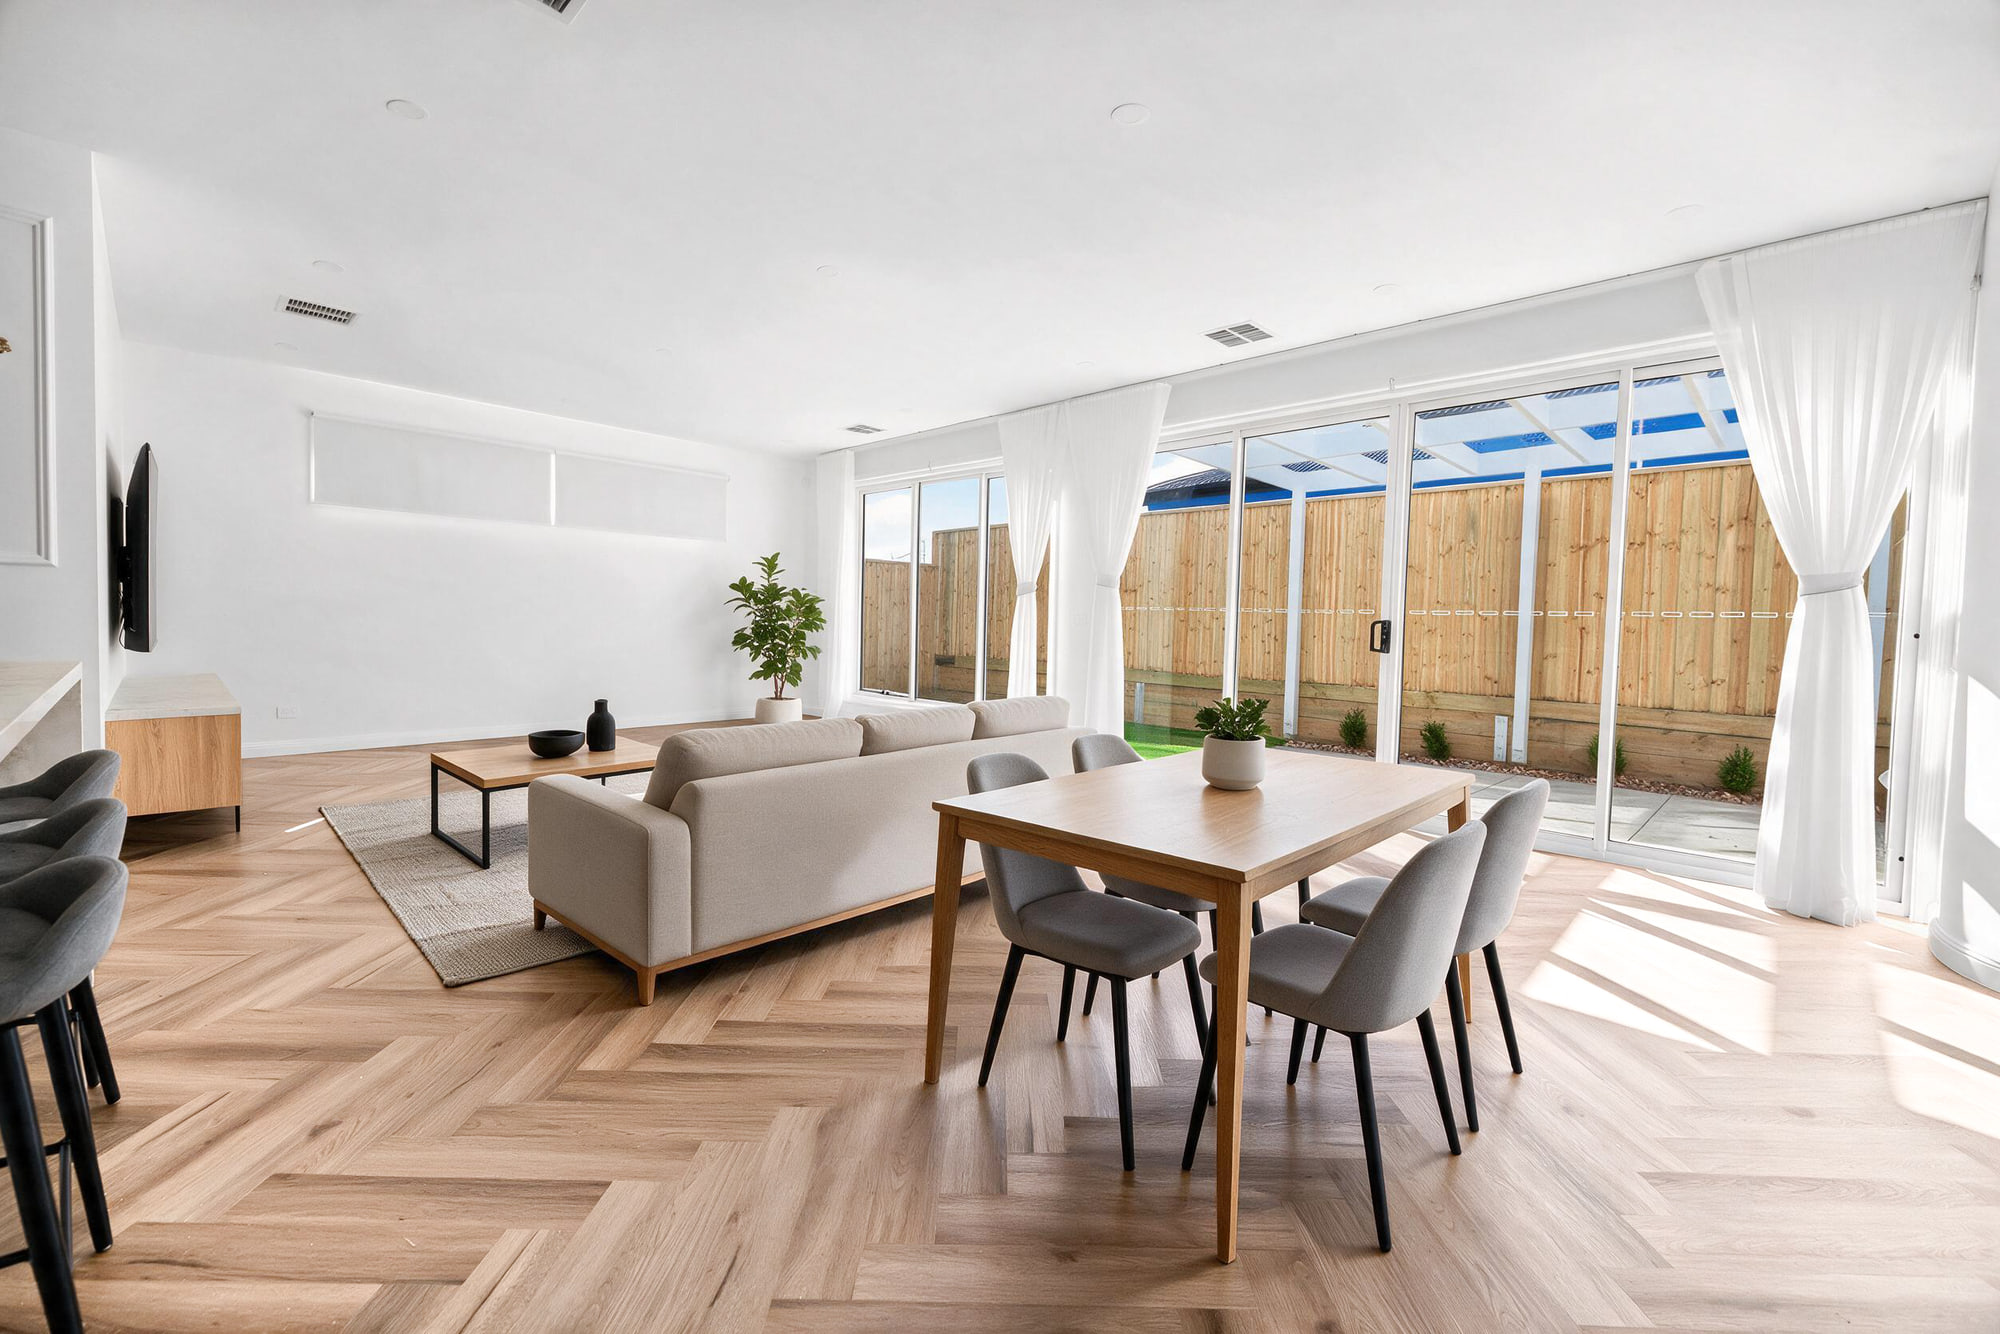
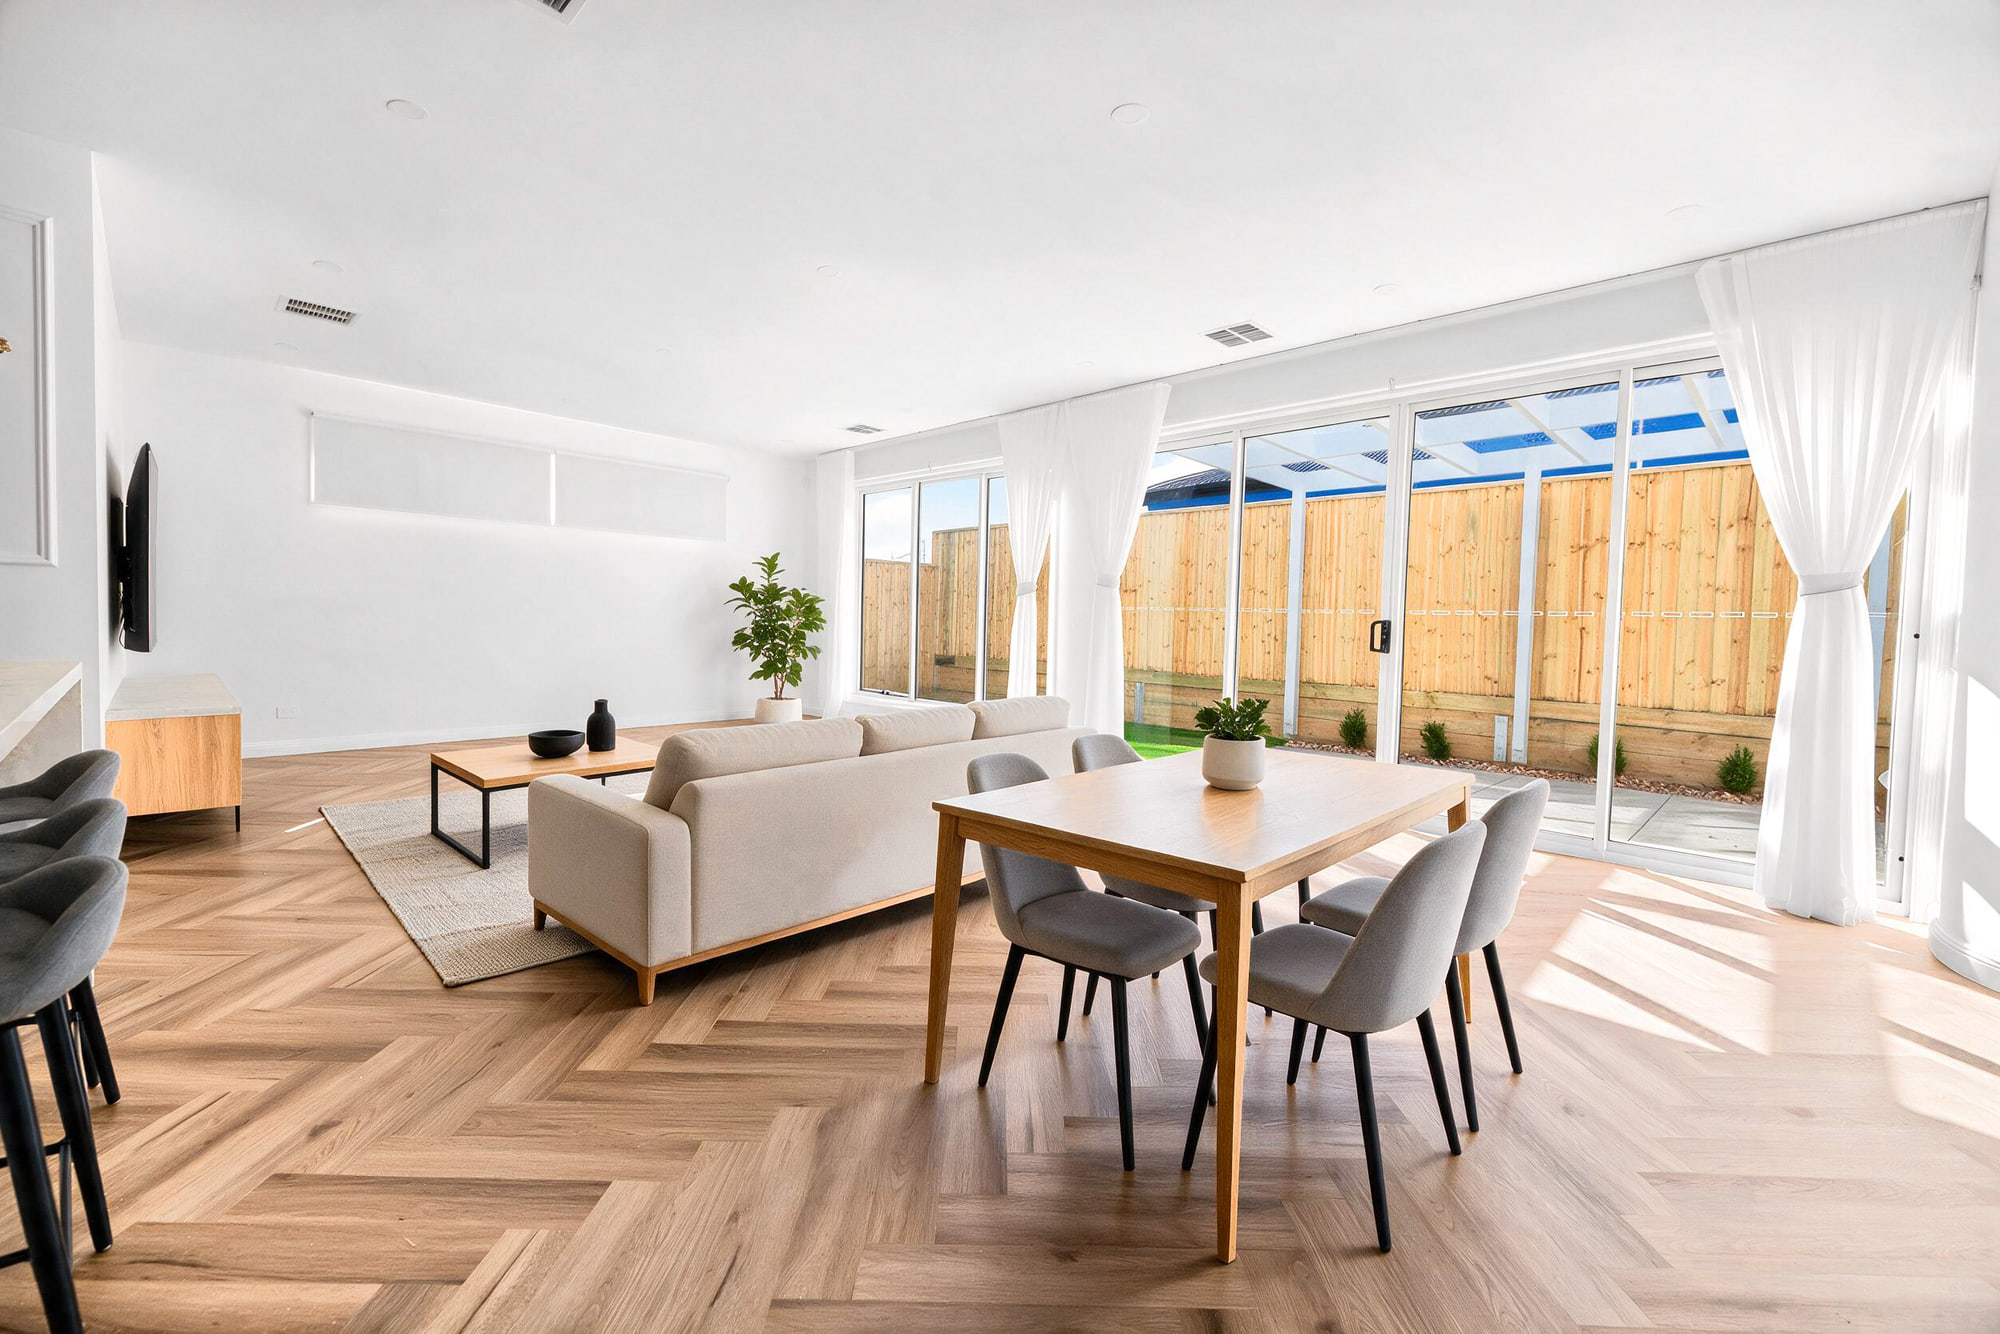
Fan the photos on phones, enlarge the section numbers
Eighteen tiles at once is the proof on a wide screen and eighteen postage
stamps on a phone. Phones now get a single fanned stack that reads as a
pile of photographs, with a "View all 18 photos" button, opening the same
lightbox at the first frame. The grid is unchanged from md up.

The section numbers were set at label size, too quiet to mark anything.
They are 60px now, in the same gold the numbered steps elsewhere use.

Heading reads "What's included." rather than "What you get."

Also swaps in the newer staged living and dining shot. It registers
against the empty frame better than the one it replaces: ceiling-region
difference 14.0 against 21.3.

Claude-Session: https://claude.ai/code/session_013442YGUeUxr3URXqHjmu23

diff --git a/src/components/ListingPhotoGrid.tsx b/src/components/ListingPhotoGrid.tsx
@@ -8,10 +8,11 @@ import Lightbox, { type LightboxState } from "./VideoLightbox";
 /**
  * The delivered photo set, openable.
  *
- * A grid of eighteen thumbnails proves the count but is too small to judge the
- * work by, which is the whole point of showing it on an ad page. Clicking any
- * tile opens the full set in the lightbox, where arrows, keys and a swipe step
- * through it.
+ * Two presentations of the same thing. On a wide screen every photograph is a
+ * tile, because eighteen of them at once is the proof. On a phone that grid
+ * becomes eighteen postage stamps, so it collapses to a single fanned stack
+ * that reads as a pile of photographs and opens the same lightbox — where
+ * arrows, keys and a swipe step through the set.
  */
 export default function ListingPhotoGrid({ photos }: { photos: string[] }) {
   const [lightbox, setLightbox] = useState<LightboxState>(null);
@@ -26,10 +27,48 @@ export default function ListingPhotoGrid({ photos }: { photos: string[] }) {
       index,
     });
 
+  /* The three on top of the pile. Any three would do; these are the first
+     three so the stack opens on the same frame the lightbox does. */
+  const [top, second, third] = photos;
+
   return (
     <>
+      {/* Phone: one pile of photographs */}
+      <button
+        type="button"
+        onClick={() => open(0)}
+        aria-label={`Open all ${photos.length} photographs`}
+        className="group mt-8 block w-full cursor-pointer md:hidden"
+      >
+        {/* Padding so the fanned corners aren't clipped by the button box. */}
+        <div className="relative mx-auto aspect-[3/2] w-[84%] px-1">
+          <span className="absolute inset-0 -rotate-6 overflow-hidden rounded-xl bg-white shadow-[0_10px_30px_rgba(26,26,26,0.18)]">
+            <Image src={third} alt="" fill sizes="84vw" quality={70} className="object-cover" />
+          </span>
+          <span className="absolute inset-0 rotate-3 overflow-hidden rounded-xl bg-white shadow-[0_10px_30px_rgba(26,26,26,0.18)]">
+            <Image src={second} alt="" fill sizes="84vw" quality={70} className="object-cover" />
+          </span>
+          <span className="absolute inset-0 overflow-hidden rounded-xl bg-white shadow-[0_14px_36px_rgba(26,26,26,0.22)] transition-transform duration-300 group-active:scale-[0.98]">
+            <Image
+              src={top}
+              alt={`Listing photograph 1 of ${photos.length}`}
+              fill
+              sizes="84vw"
+              quality={85}
+              className="object-cover"
+            />
+          </span>
+        </div>
+
+        <span className="mt-5 inline-flex items-center gap-2 rounded-full bg-re-blue px-5 py-2.5 text-sm text-white">
+          View all {photos.length} photos
+          <span aria-hidden>→</span>
+        </span>
+      </button>
+
+      {/* Wide: every photograph at once */}
       <Stagger
-        className="mt-8 grid grid-cols-2 sm:grid-cols-3 lg:grid-cols-6 gap-2.5 md:gap-3"
+        className="mt-8 hidden gap-2.5 md:grid md:grid-cols-3 lg:grid-cols-6 md:gap-3"
         staggerChildren={0.03}
       >
         {photos.map((src, i) => (
@@ -45,7 +84,7 @@ export default function ListingPhotoGrid({ photos }: { photos: string[] }) {
                 alt={`Listing photograph ${i + 1} of ${photos.length}`}
                 width={1600}
                 height={1068}
-                sizes="(max-width: 640px) 50vw, (max-width: 1024px) 33vw, 17vw"
+                sizes="(max-width: 1024px) 33vw, 17vw"
                 quality={85}
                 className="block w-full h-full object-cover aspect-[3/2] transition-transform duration-500 group-hover:scale-[1.04]"
               />

diff --git a/src/app/signature/page.tsx b/src/app/signature/page.tsx
@@ -122,7 +122,7 @@ export default function SignaturePage() {
         <Container>
           <Reveal>
             <H2 rule className="text-center [&>span]:mx-auto">
-              What you get.
+              What&apos;s included.
             </H2>
           </Reveal>
 
@@ -131,13 +131,13 @@ export default function SignaturePage() {
             <Reveal>
               <div>
                 <div className="mx-auto max-w-2xl text-center">
-                  <p className="label-eyebrow">01</p>
+                  <p className="font-serif text-5xl md:text-6xl gold-text">01</p>
                   <h3 className="mt-2 font-serif text-3xl md:text-4xl text-re-ink">
                     18 professionally edited photos
                   </h3>
                   <p className="mt-3 text-re-stone leading-relaxed">
                     Shot on DSLR and edited by hand. A whole set, exactly as it
-                    lands in your inbox. Tap any photo to look through them.
+                    lands in your inbox. Tap to look through them.
                   </p>
                 </div>
                 <ListingPhotoGrid photos={LISTING_PHOTOS} />
@@ -148,7 +148,7 @@ export default function SignaturePage() {
             <Reveal>
               <div>
                 <div className="mx-auto max-w-2xl text-center">
-                  <p className="label-eyebrow">02</p>
+                  <p className="font-serif text-5xl md:text-6xl gold-text">02</p>
                   <h3 className="mt-2 font-serif text-3xl md:text-4xl text-re-ink">
                     Landscape listing video
                   </h3>
@@ -188,7 +188,7 @@ export default function SignaturePage() {
                 {/* Centred: the media below sits centred in its column, so a
                     left-aligned heading reads as misaligned against it. */}
                 <div className="text-center">
-                  <p className="label-eyebrow">03</p>
+                  <p className="font-serif text-5xl md:text-6xl gold-text">03</p>
                   <h3 className="mt-2 font-serif text-3xl md:text-4xl text-re-ink">
                     2D floor plan
                   </h3>
@@ -211,7 +211,7 @@ export default function SignaturePage() {
 
                 {verticalVideo && (
                   <div className="text-center">
-                    <p className="label-eyebrow">04</p>
+                    <p className="font-serif text-5xl md:text-6xl gold-text">04</p>
                     <h3 className="mt-2 font-serif text-3xl md:text-4xl text-re-ink">
                       Vertical agent-led video
                     </h3>
